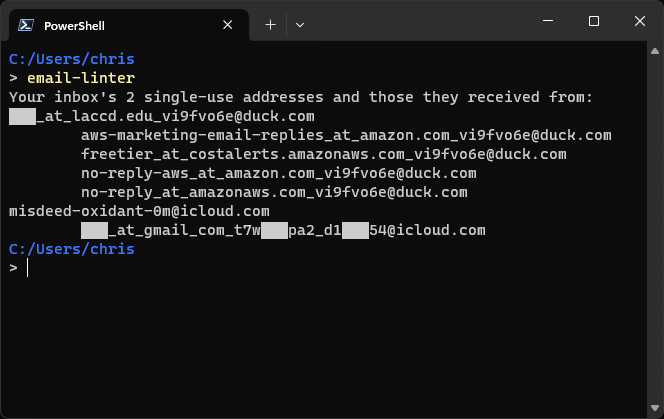
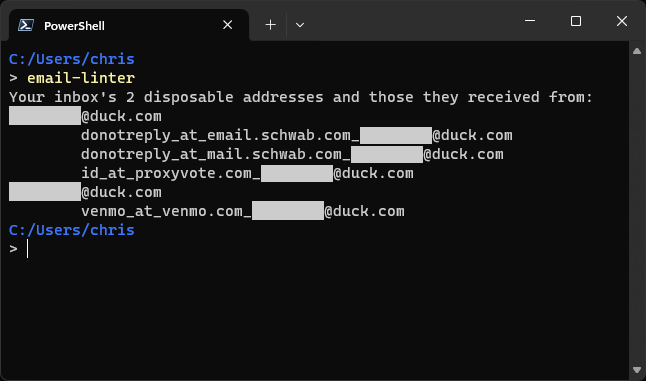
Describe the email addresses as disposable instead of single-use

diff --git a/cmd/find_spam.go b/cmd/find_spam.go
@@ -17,20 +17,21 @@ package cmd
 import (
 	"encoding/json"
 	"fmt"
+	"os"
 	"slices"
 	"strings"
 )
 
-// getSingleUseAddresses makes a web request for emails in the inbox, and from them
-// finds the receiving single-use addresses. The email addresses are sorted
+// getDisposableAddresses makes a web request for emails in the inbox, and from them
+// finds the receiving disposable addresses. The email addresses are sorted
 // alphabetically and deduplicated.
-func getSingleUseAddresses(inboxId, accountId, url, token string) []string {
+func getDisposableAddresses(inboxId, accountId, url, token string) []string {
 	emailsList := getInboxEmailsRecipients(inboxId, accountId, url, token)
 	if len(emailsList) == 0 {
-		return []string{}
+		return nil
 	}
 
-	var singleUseAddresses []string
+	var disposableAddresses []string
 	for _, emailAny := range emailsList {
 		email := emailAny.(map[string]any)
 		// if ccList := email["cc"]; ccList != nil {
@@ -44,31 +45,31 @@ func getSingleUseAddresses(inboxId, accountId, url, token string) []string {
 		// }
 		if toListAny := email["to"]; toListAny != nil {
 			toList := toListAny.([]any)
-			singleUseAddresses = appendIfSingleUse(singleUseAddresses, toList)
+			disposableAddresses = appendIfDisposable(disposableAddresses, toList)
 		}
 	}
-	if len(singleUseAddresses) == 0 {
-		return []string{}
+	if len(disposableAddresses) == 0 {
+		return nil
 	}
 
-	slices.Sort(singleUseAddresses)
-	singleUseAddresses = slices.Compact(singleUseAddresses)
+	slices.Sort(disposableAddresses)
+	disposableAddresses = slices.Compact(disposableAddresses)
 	if Verbose {
-		fmt.Printf("%d single-use addresses found:\n", len(singleUseAddresses))
-		fmt.Println("\t" + strings.Join(singleUseAddresses, "\n\t"))
+		fmt.Printf("%d disposable addresses found:\n", len(disposableAddresses))
+		fmt.Println("\t" + strings.Join(disposableAddresses, "\n\t"))
 	}
 
-	return singleUseAddresses
+	return disposableAddresses
 }
 
-// getSendersToSingleUseAddresses makes a web request for the "to" and "from" fields of
-// all emails outside the spam folder received through single-use addresses. Each item
+// getSendersToDisposableAddresses makes a web request for the "to" and "from" fields of
+// all emails outside the spam folder received through disposable addresses. Each item
 // of the returned map has keys of the "to" addresses, and values of slices of the
 // corresponding "from" addresses.
-func getSendersToSingleUseAddresses(
-	singleUseAddresses []string, spamId, accountId, url, token string,
+func getSendersToDisposableAddresses(
+	disposableAddresses []string, spamId, accountId, url, token string,
 ) map[string][]string {
-	singleUseAddressesStr := strings.Join(singleUseAddresses, "\"}, {\"to\": \"")
+	disposableAddressesStr := strings.Join(disposableAddresses, "\"}, {\"to\": \"")
 	emailsReqBody := fmt.Sprintf(`
 		{
 			"using": ["urn:ietf:params:jmap:core", "urn:ietf:params:jmap:mail"],
@@ -107,7 +108,7 @@ func getSendersToSingleUseAddresses(
 				]
 			]
 		}
-	`, accountId, spamId, singleUseAddressesStr, accountId)
+	`, accountId, spamId, disposableAddressesStr, accountId)
 
 	emailsList := getEmailsList(emailsReqBody, url, token)
 
@@ -122,11 +123,11 @@ func getSendersToSingleUseAddresses(
 	return toAndFrom
 }
 
-// appendIfSingleUse finds the recipient email address in emailDataList, which is a
+// appendIfDisposable finds the recipient email address in emailDataList, which is a
 // slice containing one map with keys "name" and "email". If the email address's domain
 // is that of an email protection service, the address is added to the slice of
-// single-use addresses. All email addresses are lowercased.
-func appendIfSingleUse(singleUseAddresses []string, emailDataList []any) []string {
+// disposable addresses. All email addresses are lowercased.
+func appendIfDisposable(disposableAddresses []string, emailDataList []any) []string {
 	if len(emailDataList) > 1 {
 		panic("Multiple recipients currently not supported")
 	}
@@ -134,18 +135,18 @@ func appendIfSingleUse(singleUseAddresses []string, emailDataList []any) []strin
 	address := strings.ToLower(to["email"].(string))
 	domain := strings.Split(address, "@")[1]
 	if strings.Contains(Domains, domain) {
-		singleUseAddresses = append(singleUseAddresses, address)
+		disposableAddresses = append(disposableAddresses, address)
 	}
-	return singleUseAddresses
+	return disposableAddresses
 }
 
-// printAddresses prints all the single-use email addresses and the addresses they
+// printAddresses prints all the disposable email addresses and the addresses they
 // received emails from. The "from" addresses are sorted alphabetically and
 // deduplicated.
-func printAddresses(singleUseAddresses []string, toAndFrom map[string][]string) {
-	if len(singleUseAddresses) == 0 {
-		fmt.Println("No single-use addresses found.")
-		return
+func printAddresses(disposableAddresses []string, toAndFrom map[string][]string) {
+	if len(disposableAddresses) == 0 {
+		fmt.Fprint(os.Stderr, "No disposable addresses found in your inbox")
+		os.Exit(0)
 	}
 
 	for to := range toAndFrom {
@@ -160,10 +161,16 @@ func printAddresses(singleUseAddresses []string, toAndFrom map[string][]string) 
 		}
 		fmt.Println(string(bytes))
 	} else {
-		fmt.Printf(
-			"Your inbox's %d single-use addresses and those they received from:\n",
-			len(singleUseAddresses),
-		)
+		if len(disposableAddresses) == 1 {
+			fmt.Printf(
+				"Your inbox's 1 disposable address and those it received from:\n",
+			)
+		} else {
+			fmt.Printf(
+				"Your inbox's %d disposable addresses and those they received from:\n",
+				len(disposableAddresses),
+			)
+		}
 		for to := range toAndFrom {
 			fmt.Println(to)
 			for _, from := range toAndFrom[to] {

diff --git a/cmd/root.go b/cmd/root.go
@@ -35,13 +35,13 @@ func runFunc(cmd *cobra.Command, args []string) {
 	token := getApiToken()
 	accountId, url := getAccountIdAndApiUrl(token)
 	inboxId, spamId := getInboxAndSpamIds(accountId, url, token)
-	singleUseAddresses := getSingleUseAddresses(inboxId, accountId, url, token)
-	if len(singleUseAddresses) == 0 {
-		fmt.Fprint(os.Stderr, "No single-use addresses found")
+	disposableAddresses := getDisposableAddresses(inboxId, accountId, url, token)
+	if len(disposableAddresses) == 0 {
+		fmt.Fprint(os.Stderr, "No disposable addresses found in your inbox")
 		os.Exit(0)
 	}
-	toAndFrom := getSendersToSingleUseAddresses(singleUseAddresses, spamId, accountId, url, token)
-	printAddresses(singleUseAddresses, toAndFrom)
+	toAndFrom := getSendersToDisposableAddresses(disposableAddresses, spamId, accountId, url, token)
+	printAddresses(disposableAddresses, toAndFrom)
 }
 
 // rootCmd represents the base command when called without any subcommands.
@@ -49,7 +49,7 @@ var rootCmd = &cobra.Command{
 	Use:     "email-linter",
 	Version: "v0.0.5",
 	Run:     runFunc,
-	Short:   "Easily find spam and phishing emails received at single-use email addresses.",
+	Short:   "Easily find spam and phishing emails received at disposable email addresses.",
 }
 
 // Execute adds all child commands to the root command and sets flags appropriately.

diff --git a/README.md b/README.md
@@ -2,7 +2,7 @@
 
 [![Go Reference](https://pkg.go.dev/badge/github.com/wheelercj/email-linter.svg)](https://pkg.go.dev/github.com/wheelercj/email-linter)
 
-Easily find spam and phishing emails received at [single-use email addresses](#what-are-single-use-email-addresses). This command-line app currently works with Fastmail and any other email services that have a [JMAP](https://jmap.io/index.html) API.
+Easily find spam and phishing emails received at [disposable email addresses](#what-are-disposable-email-addresses). This command-line app currently works with Fastmail and any other email services that have a [JMAP](https://jmap.io/index.html) API.
 
 ![demo](demo.png)
 
@@ -13,17 +13,17 @@ Either:
 * run `go install github.com/wheelercj/email-linter@latest` and then `email-linter --help`
 * or [download a zipped executable file](https://github.com/wheelercj/email-linter/releases), unzip it, and run the app with `./email-linter --help`
 
-## what are single-use email addresses?
+## what are disposable email addresses?
 
-They are email addresses created to be used for only one account each. Whenever one of these email address starts receiving spam or phishing emails, you know exactly which account was compromised and can disconnect the address from your inbox. This way, you immediately stop receiving spam and never have to give your main email address to anyone you don't trust. Some examples of these email protection services are [DuckDuckGo's Email Protection](https://duckduckgo.com/email), [Proton's hide-my-email aliases](https://proton.me/pass/aliases), [1Password's Masked Email](https://1password.com/fastmail/), [Firefox Relay](https://relay.firefox.com/), and [iCloud+'s Hide My Email](https://support.apple.com/en-us/105078). Since the emails received by these addresses _should_ have predictable "from" fields, suspicious senders can be easily found. If needed, you can customize which email protection service addresses this app searches for. Use the `--help` option for more info.
+They are email addresses created to be used for only one account each. Whenever one of these address starts receiving spam or phishing emails, you know exactly which account was compromised and can disconnect the address from your inbox. This way, you immediately stop receiving spam and never have to give your main email address to anyone you don't trust. Some examples of these email protection services are [DuckDuckGo's Email Protection](https://duckduckgo.com/email), [Proton's hide-my-email aliases](https://proton.me/pass/aliases), [1Password's Masked Email](https://1password.com/fastmail/), [Firefox Relay](https://relay.firefox.com/), and [iCloud+'s Hide My Email](https://support.apple.com/en-us/105078). Since the emails received by these addresses _should_ have predictable "from" fields, suspicious senders can be easily found with email-linter. If needed, you can customize which email protection service addresses email-linter searches for. Use the `--help` option for more info.
 
 ## how does it work?
 
 1. First, email-linter finds all emails in your inbox that went through an email protection service.
-2. Next, it finds all emails outside your spam folder those single-use addresses have ever received.
-3. Then it lists each single-use address and the addresses they have received from. This makes it simple to spot suspicious senders so you can easily search your inbox for malicious emails and decide what to do with them.
+2. Next, it finds all emails outside your spam folder those disposable addresses have ever received.
+3. Then it lists each disposable address and the addresses they have received from. This makes it simple to spot suspicious senders so you can easily search your inbox for malicious emails and decide what to do with them.
 
-This app does not store any of your data anywhere and only communicates with your email service.
+email-linter does not store any of your data anywhere and only communicates with your email service.
 
 ## API token
 
@@ -46,3 +46,6 @@ Here are some resources that were helpful while creating this app.
 * [Fastmail's JMAP samples](https://github.com/fastmail/JMAP-Samples/tree/main)
 * [JMAP Crash Course](https://jmap.io/crash-course.html)
 * [the JMAP specs and RFCs](https://jmap.io/spec.html)
+* [spf13/cobra](https://github.com/spf13/cobra)
+* [GoReleaser](https://goreleaser.com/)
+* [GoReleaser Action](https://github.com/marketplace/actions/goreleaser-action)
